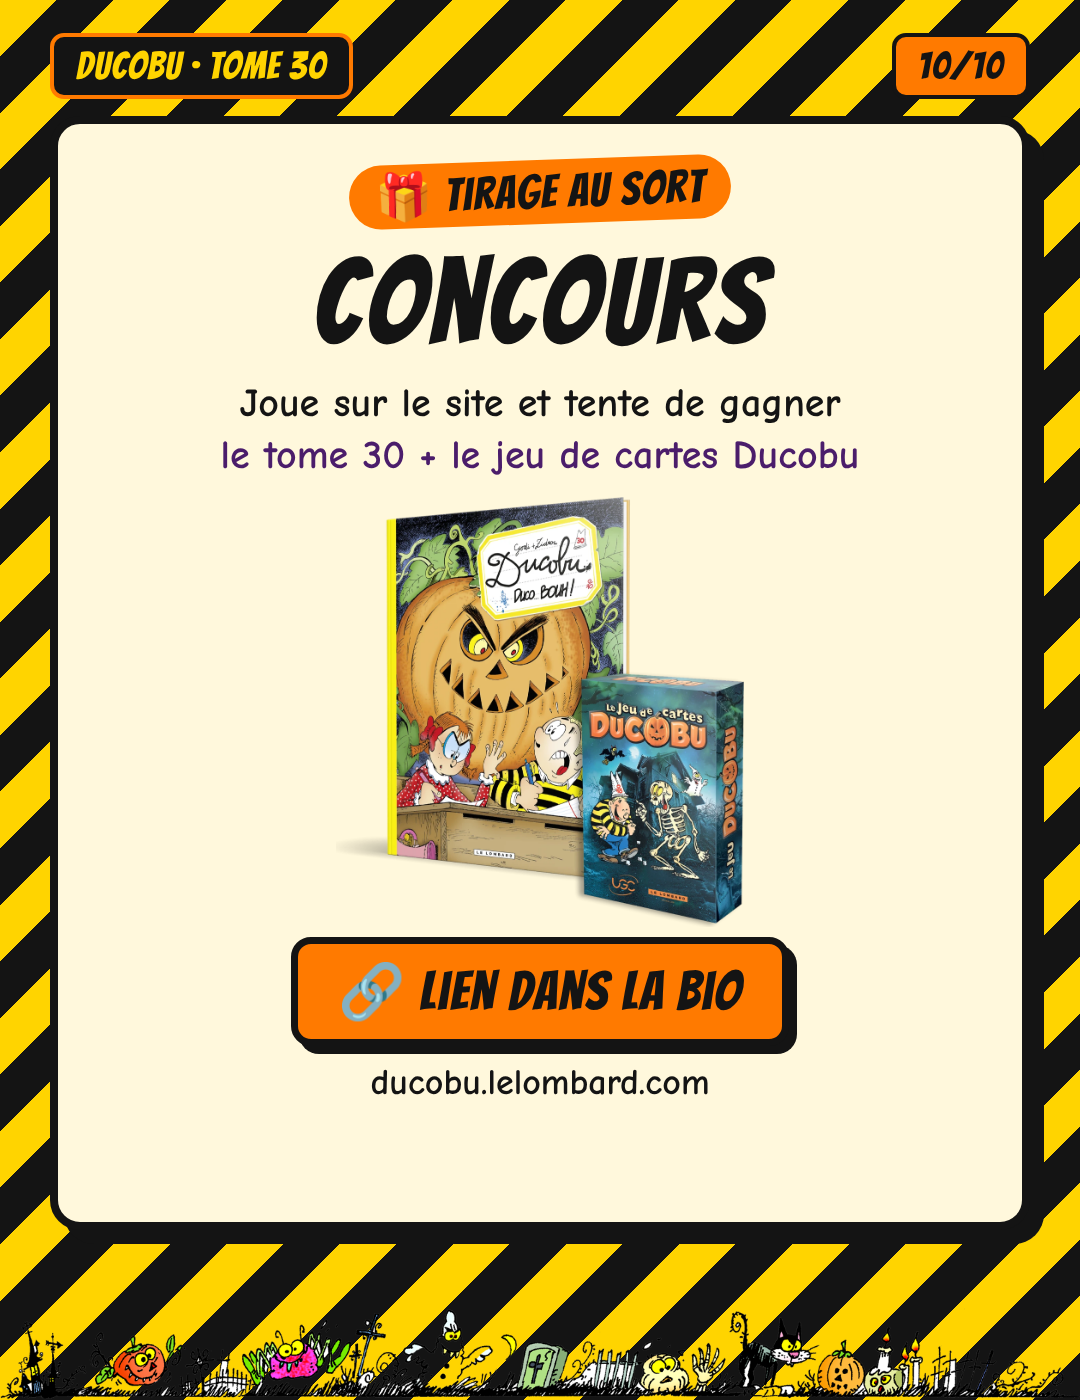
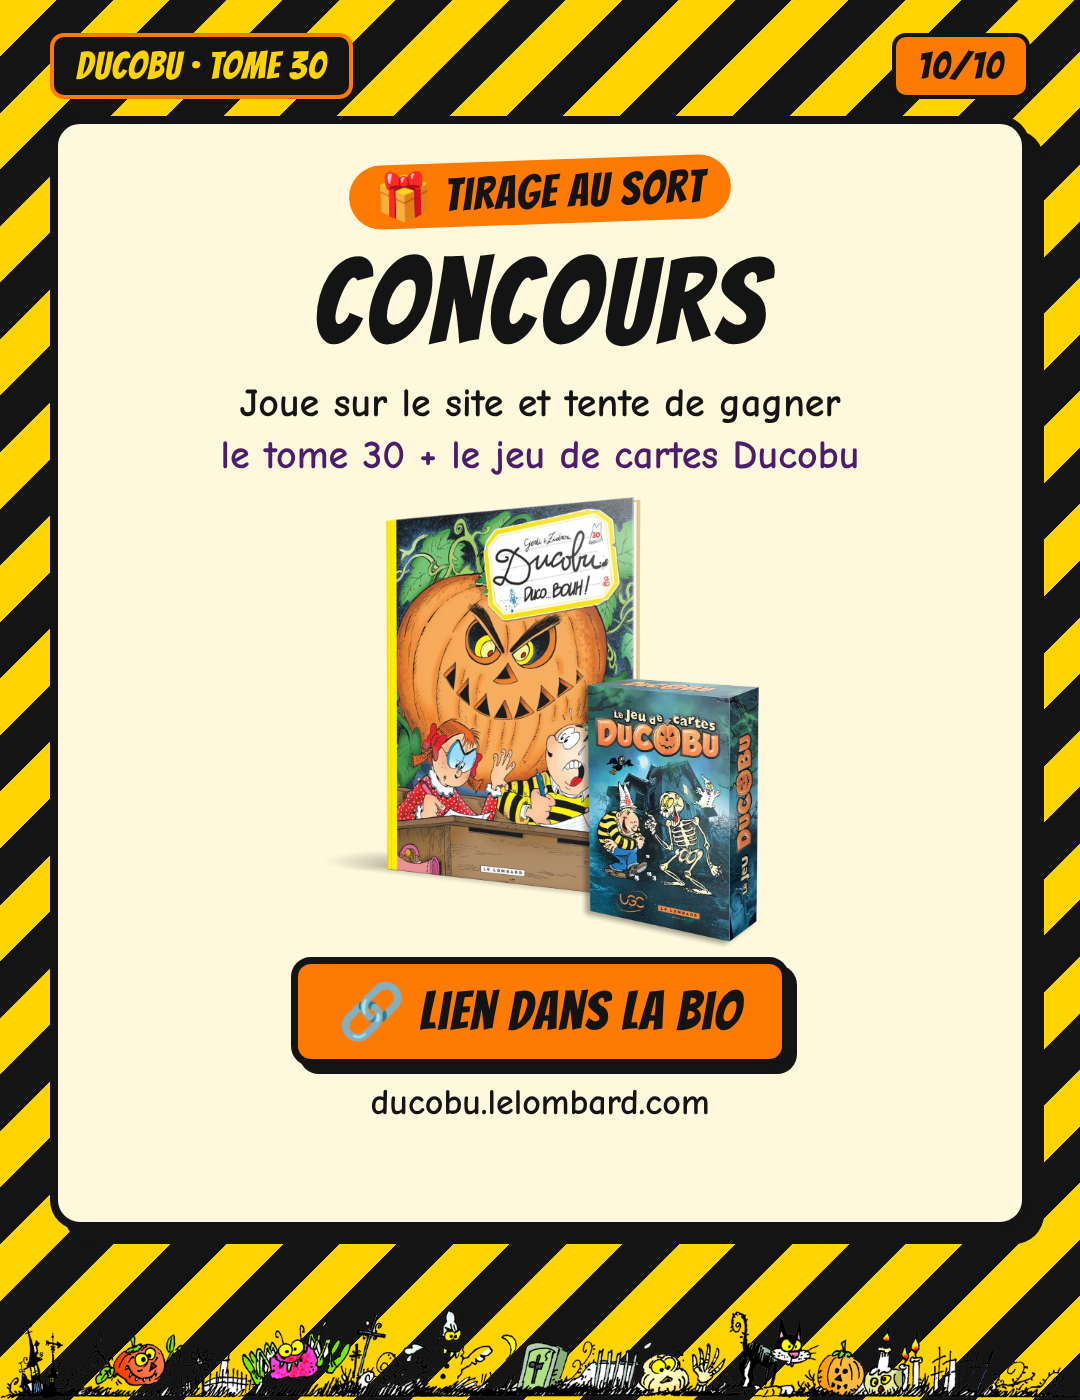
Carousel slide 10: use the new 3D prize visual
Claude-Session: https://claude.ai/code/session_01DoP3j673bFwD32w75jBGz2

Changed region(s): [[0.275, 0.3379, 0.7333, 0.7986]]

diff --git a/carrousel-instagram/out/carrousel-10-slides/html/slide-10.html b/carrousel-instagram/out/carrousel-10-slides/html/slide-10.html
@@ -39,7 +39,7 @@ h2{font-size:64px;line-height:1.08}
     <span class="k">🎁 Tirage au sort</span>
     <h2 style="margin:14px 0 4px;font-size:120px">Concours</h2>
     <p class="sub" style="font-size:40px">Joue sur le site et tente de gagner<br><span style="color:var(--purple)">le tome&nbsp;30 + le jeu de cartes Ducobu</span></p>
-    <img src="../../../../quiz-ducobu/assets/lot-tome30-jeu-v3.png" style="height:430px;margin:10px 0" alt="">
+    <img src="../../../../quiz-ducobu/assets/lot-tome30-jeu-v4.webp" style="height:450px;margin:10px 0" alt="">
     <span class="btn" style="font-size:54px">🔗 Lien dans la bio</span>
     <p class="sub" style="font-size:36px;margin-top:14px">ducobu.lelombard.com</p>
   </div>
